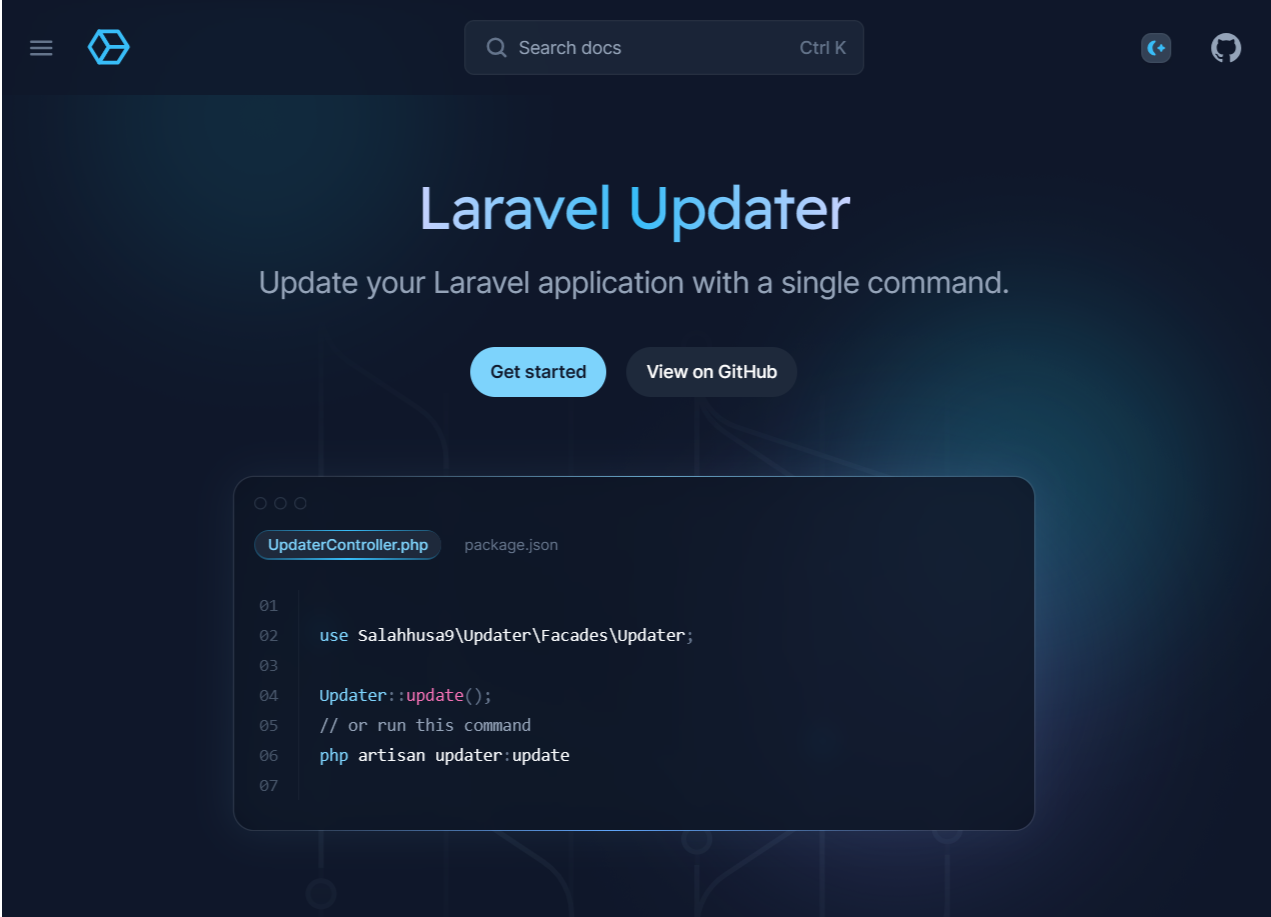
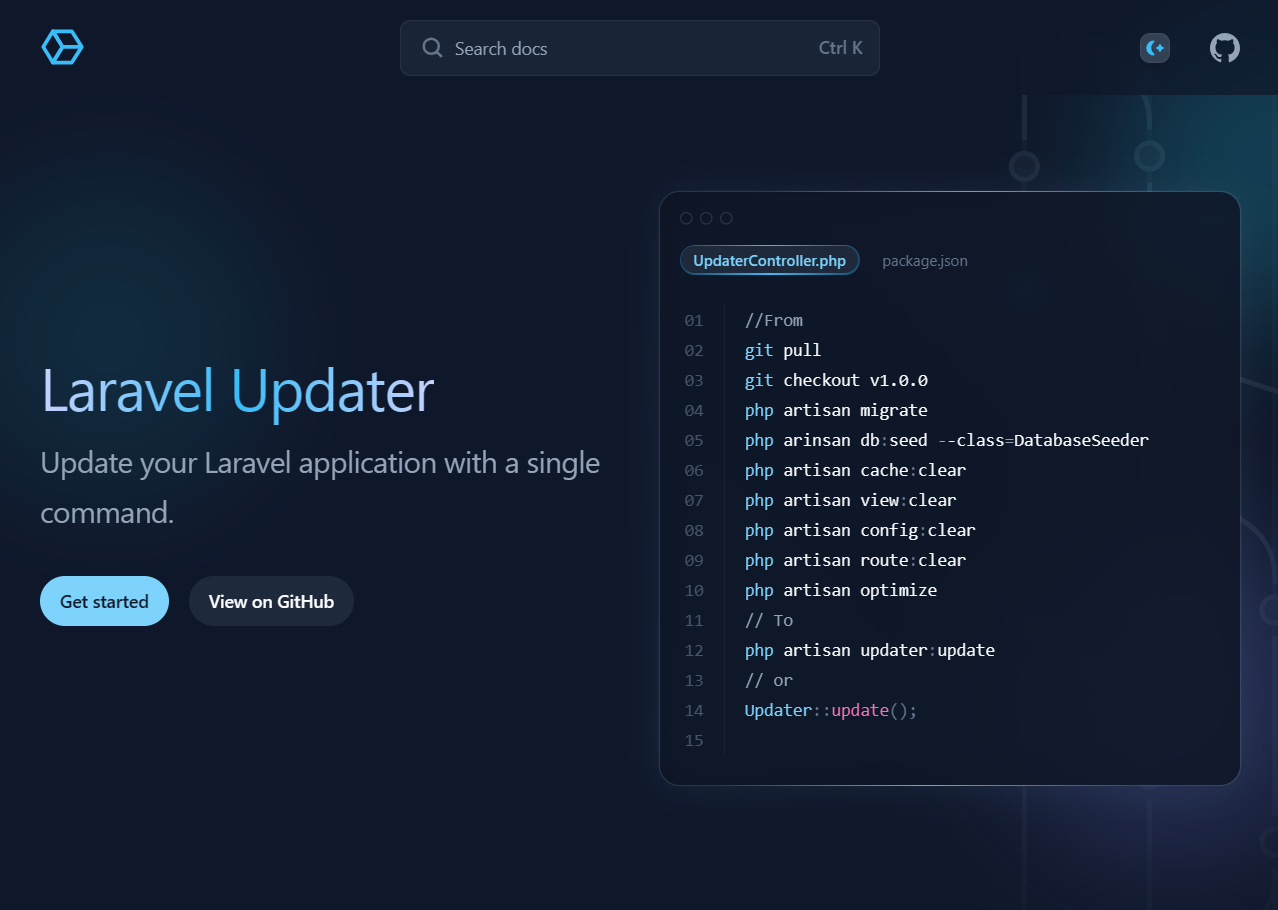
new code

diff --git a/src/components/Hero.jsx b/src/components/Hero.jsx
@@ -9,14 +9,21 @@ import blurCyanImage from '@/images/blur-cyan.png'
 import blurIndigoImage from '@/images/blur-indigo.png'
 
 const codeLanguage = 'stylus'
-const code = ` 
-use Salahhusa9\\Updater\\Facades\\Updater;
-
-Updater::update();
-// or run this command
+const code = `//From
+git pull
+git checkout v1.0.0
+php artisan migrate
+php arinsan db:seed --class=DatabaseSeeder
+php artisan cache:clear
+php artisan view:clear
+php artisan config:clear
+php artisan route:clear
+php artisan optimize
+// To
 php artisan updater:update
+// or
+Updater::update();
 `
-
 const tabs = [
   { name: 'UpdaterController.php', isActive: true },
   { name: 'package.json', isActive: false },

diff --git a/src/pages/index.md b/src/pages/index.md
@@ -20,6 +20,20 @@ Learn how to get Laravel Updater set up in your project in under thirty minutes 
 
 This is a useful package for update your Laravel application, and it can help simplify the process of update your application.
 
+```shell
+// From
+git pull
+php artisan migrate
+php arinsan db:seed --class=DatabaseSeeder
+php artisan cache:clear
+php artisan view:clear
+php artisan config:clear
+php artisan route:clear
+php artisan optimize
+// To
+php artisan updater:update
+```
+
 
 ### Installing
 
